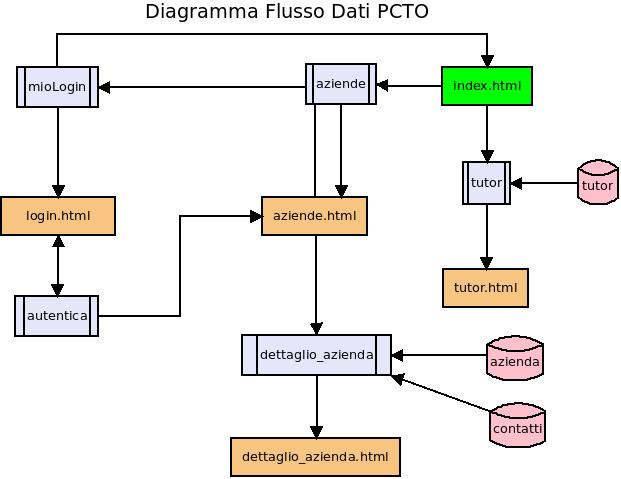
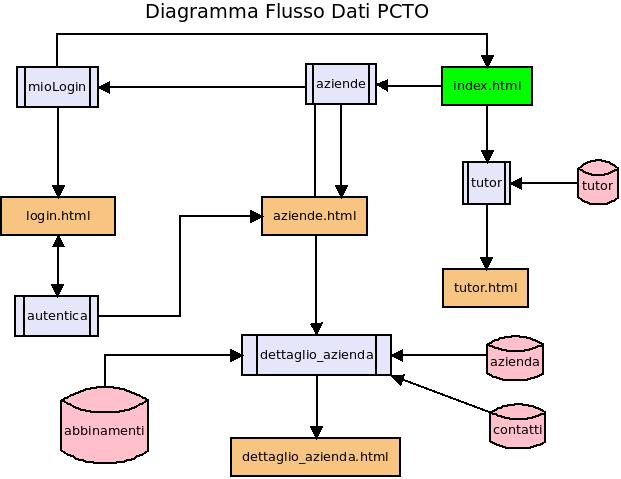
inserito calcolo posti residui dispponibili abbinamenti

Changed region(s): [[0.0918, 0.7307, 0.3977, 0.9937], [0.7649, 0.8184, 0.8873, 0.9353]]

diff --git a/pcto/templates/dettaglio_azienda.html b/pcto/templates/dettaglio_azienda.html
@@ -3,7 +3,7 @@
 {%block head%}
         <style>
             .dati {text-align: center; margin-top: 30px;}
-            .dati b,.contatto b {color:brown;}
+            b {color:brown;}
             #settore {text-align:center; margin-top: -20px; }
             #container { margin:auto; background: pink}
             .commento { margin-top: 5px; margin-right: 10px;
@@ -49,6 +49,7 @@
         {% endfor %}
     <br clear="all">
     <h3>Abbinamenti</h3>
+    <b>Posti ancora disponibili: </b>{{posti}}
     <hr>
         <table>
             <th>Studente</th><th>Da</th><th>A</th>

diff --git a/pcto/models.py b/pcto/models.py
@@ -51,7 +51,7 @@ class Contatti(models.Model):
     periodo_a = models.DateField(null=True,blank=True)
 
     def __str__(self):
-       return(self.data.strftime("%d/%m/%Y"))
+       return(self.data.strftime("%d/%m/%Y") + " " + self.tutor.cognome)
 
     class Meta:
         ordering = ['-data']
@@ -62,6 +62,7 @@ class Abbinamenti(models.Model):
     azienda = models.ForeignKey(Aziende, on_delete=models.CASCADE)
     periodo_da = models.DateField(null=True,blank=True)
     periodo_a = models.DateField(null=True,blank=True)
+    contatto = models.ForeignKey(Contatti,on_delete=models.CASCADE,null=True,blank=True)
 
     def __str__(self):
        return(self.studente.cognome)

diff --git a/pcto/views.py b/pcto/views.py
@@ -45,7 +45,11 @@ def dettaglio_azienda(request,piva):
     contatti = azienda.contatti_set.all()
     #stagisti = azienda.stagisti.all()
     abbinamenti = Abbinamenti.objects.filter(azienda=azienda)
-    context = {'azienda':azienda, 'contatti': contatti, 'abbinamenti':abbinamenti}
+    if contatti:
+        posti = contatti[0].num_studenti - len(abbinamenti)
+    else:
+        posti = 0
+    context = {'azienda':azienda, 'contatti': contatti, 'abbinamenti':abbinamenti, 'posti':posti}
     return render(request,"dettaglio_azienda.html",context) 
 
 def mioLogin(request):

diff --git a/pcto/migrations/0004_abbinamenti_contatto.py b/pcto/migrations/0004_abbinamenti_contatto.py
@@ -1,0 +1,19 @@
+# Generated by Django 3.2.11 on 2022-04-24 11:48
+
+from django.db import migrations, models
+import django.db.models.deletion
+
+
+class Migration(migrations.Migration):
+
+    dependencies = [
+        ('pcto', '0003_auto_20220423_1940'),
+    ]
+
+    operations = [
+        migrations.AddField(
+            model_name='abbinamenti',
+            name='contatto',
+            field=models.ForeignKey(blank=True, null=True, on_delete=django.db.models.deletion.CASCADE, to='pcto.contatti'),
+        ),
+    ]
